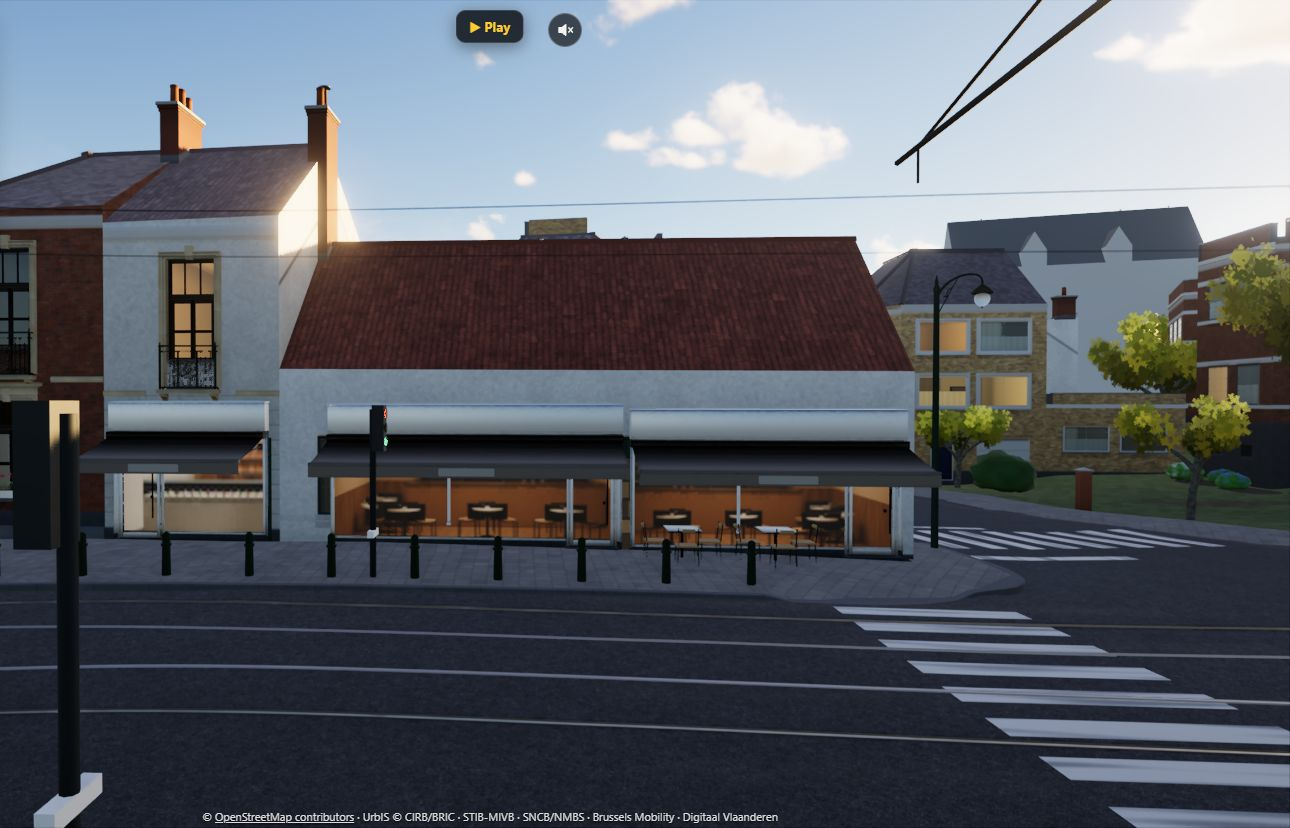
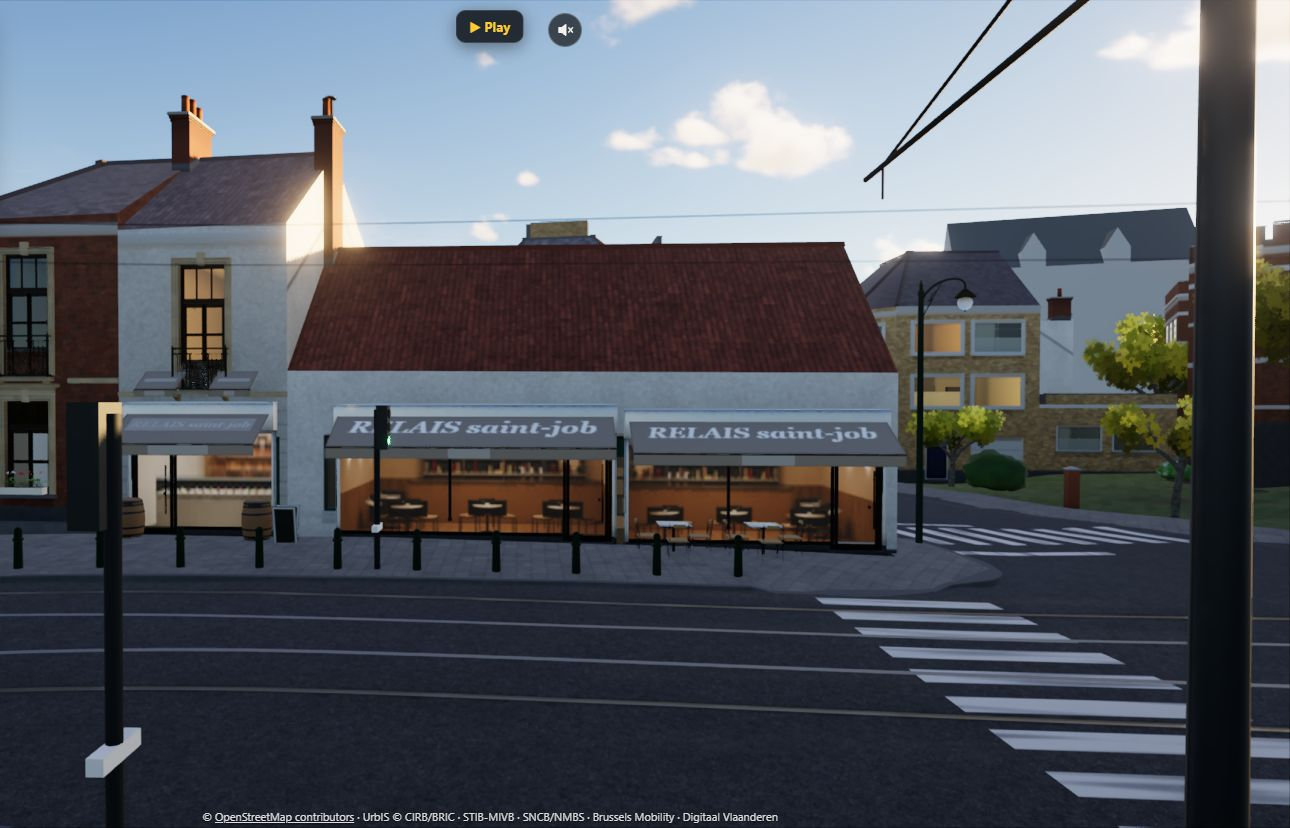
citydefects shops: the steep awning's slope box in a right-handed frame (its text face was wound inward and culled: no script), white script on the taupe canvas, A-boards right-handed; Le Relais now reads as on Street View (RELAIS saint-job on each awning, section on the valance, barrels, black fram

diff --git a/viewer/shops/shopLayout.js b/viewer/shops/shopLayout.js
@@ -61,9 +61,12 @@ function steepAwning(env, at, X, Y, Z, w, y, out, deg, canvas, text, font, valan
   const Ys = [(Z[0] * out) / L, -drop / L, (Z[2] * out) / L];
   let Zo = [X[1] * Ys[2] - X[2] * Ys[1], X[2] * Ys[0] - X[0] * Ys[2], X[0] * Ys[1] - X[1] * Ys[0]];
   if (Zo[1] < 0) Zo = Zo.map((v) => -v);
-  const ink = lumOf(canvas) > 0.25 ? [0.03, 0.03, 0.03] : [0.95, 0.94, 0.9];
+  const ink = lumOf(canvas) > 0.5 ? [0.03, 0.03, 0.03] : [0.95, 0.94, 0.9];   // (white letters on a taupe canvas, as the real ones)
   const mid = env.add(at(u, y, 0), Ys, L / 2, Zo, 0.006, X, 0);
-  box(mid, X, Ys, Zo, w, L, 0.012, { board: canvas, ink, lab: text ? label(twoLines(text, 22), font) : null, pad: 0.16, rough: 0.9 });
+  // (a right-handed frame: X x up-the-slope = the face's outward normal; with the down-slope axis it was left-handed:
+  // the text face wound inward and culled, browser check 2026-11-16)
+  const Yup = Ys.map((v) => -v);
+  box(mid, X, Yup, Zo, w, L, 0.012, { board: canvas, ink, lab: text ? label(twoLines(text, 22), font) : null, pad: 0.16, rough: 0.9 });
   const front = at(u, y - drop, out);
   box(env.add(front, Y, -0.015, Z, 0.012, X, 0), X, Y, Z, w + 0.02, 0.03, 0.03, { board: [0.03, 0.03, 0.032], rough: 0.4, metal: 0.5 });
   const vh = out > 0.8 ? 0.24 : 0.14;
@@ -216,8 +219,8 @@ export function layoutShop(p, f, frame, lit, env) {
     const [u, z] = cf.aboard, o = at(u, 0, z), tilt = 0.17;
     for (const sd of [1, -1]) {
       const Yb = [Z[0] * sd * Math.sin(tilt), Math.cos(tilt), Z[2] * sd * Math.sin(tilt)];
-      let Zb = [X[1] * Yb[2] - X[2] * Yb[1], X[2] * Yb[0] - X[0] * Yb[2], X[0] * Yb[1] - X[1] * Yb[0]];
-      if ((Zb[0] * Z[0] + Zb[2] * Z[2]) * sd < 0) Zb = Zb.map((v) => -v);
+      const Zb = [X[1] * Yb[2] - X[2] * Yb[1], X[2] * Yb[0] - X[0] * Yb[2], X[0] * Yb[1] - X[1] * Yb[0]];
+      // (Zb = X x Yb: a right-handed frame, whichever way the board leans)
       box(add(o, Yb, 0.45, Zb, 0.02, X, 0), X, Yb, Zb, 0.55, 0.9, 0.025, { board: [0.025, 0.03, 0.026], border: 0.03, rough: 0.9 });
     }
   }
